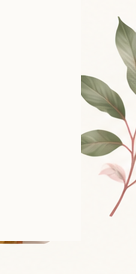
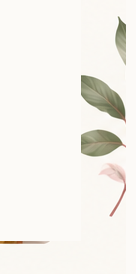
Add Collaboration and Reviews sections with interactive modal and simulated DB backend

Changed region(s): [[0.9118, 0.0876, 1.0, 0.3504], [0.9118, 0.4672, 1.0, 0.7007], [0.9118, 0.438, 0.9412, 0.4672]]

diff --git a/src/pages/HomePage.jsx b/src/pages/HomePage.jsx
@@ -1,7 +1,7 @@
 import React, { useState, useEffect } from 'react'
 import { Link } from 'react-router-dom'
 import { motion } from 'framer-motion'
-import { ArrowRight, MapPin, Leaf, Heart, Star, Flame, Clock, Calendar } from 'lucide-react'
+import { ArrowRight, MapPin, Leaf, Heart, Star, Flame, Clock, Calendar, Check, Quote, X, ChevronLeft, ChevronRight } from 'lucide-react'
 import leafImg from '../assets/bottom-left-leaf.png'
 import rightImg from '../assets/hero-right.png'
 import menu1 from '../assets/menu-1.png'
@@ -40,6 +40,9 @@ const BowlIcon = () => (
 
 const HomePage = () => {
   const [menuItems, setMenuItems] = useState([]);
+  const [packages, setPackages] = useState([]);
+  const [reviews, setReviews] = useState([]);
+  const [selectedReview, setSelectedReview] = useState(null);
 
   // Mocking database fetch for showcase
   useEffect(() => {
@@ -53,6 +56,20 @@ const HomePage = () => {
         { id: 4, img: menu4, title: 'Fruit Chaat', price: '₹60', desc: 'Fresh, colourful & zesty', badge: 'Fresh & Seasonal', badgeType: 'leaf' },
       ];
       setMenuItems(mockDbData);
+
+      // Simulate fetching packages from database
+      setPackages([
+        { id: 1, name: 'Basic', price: '₹1,499', period: '/ month', isPopular: false, features: ['1 Reel / Week', 'In-Store Shoot', 'Story Mentions', 'Basic Editing'] },
+        { id: 2, name: 'Standard', price: '₹2,499', period: '/ month', isPopular: true, features: ['2 Reels / Week', 'In-Store + Product Shots', 'Story Mentions', 'Custom Captions', 'Priority Scheduling'] },
+        { id: 3, name: 'Pro', price: '₹3,999', period: '/ month', isPopular: false, features: ['3 Reels / Week', 'Creative Concept & Script', 'In-Store + Lifestyle Shoots', 'Story Mentions', 'Priority Support'] },
+      ]);
+
+      // Simulate fetching reviews from database
+      setReviews([
+        { id: 1, name: 'Kavya S.', initial: 'K', stars: 5, excerpt: '"Best cold cocoa in Balotra! Always fresh and so tasty."', fullText: "I've been visiting Evora Balotra for months now, and their cold cocoa is hands down the best in town. The ingredients are always fresh and it tastes amazing every single time." },
+        { id: 2, name: 'Rohan M.', initial: 'R', stars: 5, excerpt: '"Chatpata mix is my go-to snack. Perfect taste and always fresh."', fullText: "The chatpata mix is my absolute favorite. It has the perfect balance of spices, and it's always served fresh. Great place to hang out with friends!" },
+        { id: 3, name: 'Pooja D.', initial: 'P', stars: 5, excerpt: '"Their fruit chaat is amazing! Fresh, healthy and super delicious."', fullText: "Highly recommend the fruit chaat. It's incredibly fresh, very healthy, and they use a great variety of fruits. The staff is also very friendly and welcoming." },
+      ]);
     };
     fetchMenuFromDatabase();
   }, []);
@@ -82,7 +99,7 @@ const HomePage = () => {
   ]
 
   return (
-    <div style={{ background: '#FCFAF7', minHeight: '100vh' }}>
+    <div style={{ background: '#FCFAF7', minHeight: '100vh', overflowX: 'hidden' }}>
       {/* Hero Section */}
       <section style={{
         minHeight: '100vh',
@@ -508,6 +525,164 @@ const HomePage = () => {
           </div>
         </div>
       </section>
+
+      {/* Collaboration & Promotion Section */}
+      <section style={{ padding: '4rem 0', background: '#FCFAF7', position: 'relative' }}>
+        <div className="container" style={{ padding: '0 4rem', maxWidth: '1400px', margin: '0 auto', display: 'flex', gap: '3rem', alignItems: 'stretch', position: 'relative', zIndex: 2 }}>
+          {/* Left Side */}
+          <div style={{ flex: '0.9', display: 'flex', flexDirection: 'column', justifyContent: 'center' }}>
+            <div style={{ display: 'flex', alignItems: 'center', gap: '0.8rem', marginBottom: '1rem' }}>
+              <span style={{ fontSize: '0.75rem', letterSpacing: '2px', color: '#8b8b9a', fontWeight: 600, textTransform: 'uppercase' }}>COLLABORATION & PROMOTION</span>
+            </div>
+            <h2 style={{ fontSize: '3.2rem', fontWeight: 600, lineHeight: 1.05, color: '#3e5c46', fontFamily: "'Playfair Display', serif", marginBottom: '1rem', letterSpacing: '-1px' }}>
+              Let's<br />
+              <span style={{ color: '#D36777' }}>Grow Together.</span>
+            </h2>
+            <p style={{ fontSize: '0.95rem', lineHeight: 1.5, color: '#6b7280', marginBottom: '2.5rem', fontFamily: "'Playfair Display', serif", maxWidth: '400px' }}>
+              Evora Balotra collaborates with local creators, influencers and pages to reach more people and share the taste of Balotra. Get high-quality content, regular video features and more with our monthly collaboration packages.
+            </p>
+            <div>
+              <button style={{ background: '#4a5d4e', color: 'white', padding: '0.9rem 2.2rem', borderRadius: '8px', display: 'inline-flex', alignItems: 'center', gap: '0.5rem', fontWeight: 500, fontSize: '0.9rem', border: 'none', cursor: 'pointer', transition: 'all 0.3s' }}>
+                Collaborate With Us <ArrowRight size={16} strokeWidth={2} />
+              </button>
+            </div>
+          </div>
+
+          {/* Right Side Pink Box */}
+          <div style={{ flex: '2', background: '#FFF4F5', borderRadius: '25px', padding: '2.5rem', display: 'flex', flexDirection: 'column' }}>
+            <div style={{ display: 'flex', justifyContent: 'space-between', alignItems: 'center', marginBottom: '2rem' }}>
+              <h3 style={{ fontSize: '1.6rem', color: '#374151', fontFamily: "'Playfair Display', serif", fontWeight: 600, margin: 0 }}>Collaboration Packages</h3>
+              <div style={{ background: '#FCE7EA', color: '#D36777', padding: '0.4rem 0.8rem', borderRadius: '20px', fontSize: '0.75rem', fontWeight: 600, display: 'flex', alignItems: 'center', gap: '0.4rem' }}>
+                <Star size={12} fill="#D36777" color="#D36777" /> Best for local creators
+              </div>
+            </div>
+            
+            <div style={{ display: 'flex', gap: '1rem', flex: 1 }}>
+              {packages.map((pkg) => (
+                <div key={pkg.id} style={{ flex: 1, background: 'white', borderRadius: '15px', padding: '1.5rem', display: 'flex', flexDirection: 'column', position: 'relative' }}>
+                  <div style={{ display: 'flex', justifyContent: 'space-between', alignItems: 'center', marginBottom: '0.5rem' }}>
+                    <h4 style={{ color: '#D36777', fontSize: '1rem', fontWeight: 500, margin: 0 }}>{pkg.name}</h4>
+                    {pkg.isPopular && (
+                      <span style={{ background: '#4a5d4e', color: 'white', fontSize: '0.65rem', padding: '0.2rem 0.6rem', borderRadius: '12px', fontWeight: 600 }}>Popular</span>
+                    )}
+                  </div>
+                  <div style={{ marginBottom: '1.5rem' }}>
+                    <span style={{ fontSize: '1.6rem', color: '#D36777', fontWeight: 600 }}>{pkg.price}</span>
+                    <span style={{ fontSize: '0.75rem', color: '#9ca3af' }}> {pkg.period}</span>
+                  </div>
+                  
+                  <div style={{ flex: 1 }}>
+                    {pkg.features.map((feature, idx) => (
+                      <div key={idx} style={{ display: 'flex', alignItems: 'flex-start', gap: '0.5rem', marginBottom: '0.8rem' }}>
+                        <Check size={14} color="#4a5d4e" strokeWidth={3} style={{ marginTop: '0.2rem' }} />
+                        <span style={{ fontSize: '0.8rem', color: '#4b5563' }}>{feature}</span>
+                      </div>
+                    ))}
+                  </div>
+
+                  <button style={{ width: '100%', background: pkg.isPopular ? '#4a5d4e' : 'transparent', color: pkg.isPopular ? 'white' : '#4a5d4e', border: '1px solid #4a5d4e', padding: '0.75rem 0', borderRadius: '20px', fontSize: '0.85rem', fontWeight: 600, marginTop: '1rem', cursor: 'pointer', transition: 'all 0.3s' }}>
+                    Choose Plan
+                  </button>
+                </div>
+              ))}
+            </div>
+          </div>
+        </div>
+      </section>
+
+      {/* What People Say Section */}
+      <section style={{ padding: '2rem 0 6rem 0', background: '#FCFAF7', position: 'relative' }}>
+        <div className="container" style={{ padding: '0 4rem', maxWidth: '1400px', margin: '0 auto', display: 'flex', gap: '3rem', alignItems: 'center', position: 'relative', zIndex: 2 }}>
+          {/* Left Side */}
+          <div style={{ flex: '0.9' }}>
+            <div style={{ display: 'flex', alignItems: 'center', gap: '0.8rem', marginBottom: '1rem' }}>
+              <span style={{ fontSize: '0.75rem', letterSpacing: '2px', color: '#8b8b9a', fontWeight: 600, textTransform: 'uppercase' }}>WHAT PEOPLE SAY</span>
+              <span style={{ height: '1px', width: '35px', background: '#fca5a5' }}></span>
+            </div>
+            <h2 style={{ fontSize: '3.2rem', fontWeight: 600, lineHeight: 1.05, color: '#3e5c46', fontFamily: "'Playfair Display', serif", marginBottom: '1rem', letterSpacing: '-1px' }}>
+              Loved by<br />
+              <span style={{ color: '#D36777' }}>Many in Balotra.</span>
+            </h2>
+            <p style={{ fontSize: '0.95rem', lineHeight: 1.5, color: '#6b7280', marginBottom: '2.5rem', fontFamily: "'Playfair Display', serif", maxWidth: '350px' }}>
+              Your kind words keep us going. Here's what our customers and creators say about Evora.
+            </p>
+            
+            <div style={{ display: 'flex', gap: '0.8rem' }}>
+              <button style={{ width: '40px', height: '40px', borderRadius: '50%', border: '1px solid #d1d5db', background: 'transparent', display: 'flex', alignItems: 'center', justifyContent: 'center', cursor: 'pointer', color: '#4b5563', transition: 'all 0.2s' }}>
+                <ChevronLeft size={18} />
+              </button>
+              <button style={{ width: '40px', height: '40px', borderRadius: '50%', border: '1px solid #4a5d4e', background: 'transparent', display: 'flex', alignItems: 'center', justifyContent: 'center', cursor: 'pointer', color: '#4a5d4e', transition: 'all 0.2s' }}>
+                <ChevronRight size={18} />
+              </button>
+            </div>
+          </div>
+
+          {/* Right Side Review Cards */}
+          <div style={{ flex: '2', display: 'flex', gap: '1rem' }}>
+            {reviews.map((review) => (
+              <div 
+                key={review.id} 
+                onClick={() => setSelectedReview(review)}
+                style={{ flex: 1, background: 'white', borderRadius: '15px', padding: '1.5rem', boxShadow: '0 4px 20px rgba(0,0,0,0.03)', cursor: 'pointer', transition: 'transform 0.2s', position: 'relative' }}
+                onMouseEnter={(e) => e.currentTarget.style.transform = 'translateY(-5px)'}
+                onMouseLeave={(e) => e.currentTarget.style.transform = 'translateY(0)'}
+              >
+                <div style={{ position: 'absolute', top: '1.5rem', right: '1.5rem', color: '#FCE7EA' }}>
+                  <Quote size={24} fill="currentColor" />
+                </div>
+                <div style={{ display: 'flex', alignItems: 'center', gap: '0.8rem', marginBottom: '1rem' }}>
+                  <div style={{ width: '40px', height: '40px', borderRadius: '50%', background: '#4a5d4e', color: 'white', display: 'flex', alignItems: 'center', justifyContent: 'center', fontWeight: 600, fontSize: '1rem' }}>
+                    {review.initial}
+                  </div>
+                  <div>
+                    <h4 style={{ fontSize: '0.9rem', color: '#374151', fontWeight: 600, margin: '0 0 0.2rem 0' }}>{review.name}</h4>
+                    <div style={{ display: 'flex', gap: '2px' }}>
+                      {[...Array(5)].map((_, i) => (
+                        <Star key={i} size={10} fill={i < review.stars ? "#f59e0b" : "#e5e7eb"} color={i < review.stars ? "#f59e0b" : "#e5e7eb"} />
+                      ))}
+                    </div>
+                  </div>
+                </div>
+                <p style={{ fontSize: '0.85rem', color: '#6b7280', lineHeight: 1.5, margin: 0, fontStyle: 'italic' }}>
+                  {review.excerpt}
+                </p>
+                <div style={{ fontSize: '0.7rem', color: '#D36777', fontWeight: 600, marginTop: '1rem', textTransform: 'uppercase', letterSpacing: '1px' }}>Read Full Review →</div>
+              </div>
+            ))}
+          </div>
+        </div>
+      </section>
+
+      {/* Review Modal Pop-up */}
+      {selectedReview && (
+        <div style={{ position: 'fixed', top: 0, left: 0, right: 0, bottom: 0, background: 'rgba(0,0,0,0.5)', zIndex: 1000, display: 'flex', alignItems: 'center', justifyContent: 'center', backdropFilter: 'blur(5px)' }} onClick={() => setSelectedReview(null)}>
+          <div style={{ background: 'white', padding: '3rem', borderRadius: '20px', maxWidth: '500px', width: '90%', position: 'relative', boxShadow: '0 20px 40px rgba(0,0,0,0.2)' }} onClick={(e) => e.stopPropagation()}>
+            <button onClick={() => setSelectedReview(null)} style={{ position: 'absolute', top: '1.5rem', right: '1.5rem', background: '#f3f4f6', borderRadius: '50%', padding: '0.5rem', border: 'none', cursor: 'pointer', color: '#4b5563', display: 'flex' }}>
+              <X size={18} />
+            </button>
+            <div style={{ display: 'flex', alignItems: 'center', gap: '1rem', marginBottom: '1.5rem' }}>
+              <div style={{ width: '50px', height: '50px', borderRadius: '50%', background: '#4a5d4e', color: 'white', display: 'flex', alignItems: 'center', justifyContent: 'center', fontWeight: 600, fontSize: '1.2rem' }}>
+                {selectedReview.initial}
+              </div>
+              <div>
+                <h3 style={{ fontSize: '1.2rem', color: '#374151', margin: '0 0 0.3rem 0' }}>{selectedReview.name}</h3>
+                <div style={{ display: 'flex', gap: '3px' }}>
+                  {[...Array(5)].map((_, i) => (
+                    <Star key={i} size={14} fill={i < selectedReview.stars ? "#f59e0b" : "#e5e7eb"} color={i < selectedReview.stars ? "#f59e0b" : "#e5e7eb"} />
+                  ))}
+                </div>
+              </div>
+            </div>
+            <p style={{ fontSize: '1.05rem', color: '#4b5563', lineHeight: 1.6, fontStyle: 'italic', marginBottom: '2rem' }}>
+              "{selectedReview.fullText}"
+            </p>
+            <div style={{ textAlign: 'center', borderTop: '1px solid #e5e7eb', paddingTop: '1.5rem' }}>
+              <span style={{ fontSize: '0.8rem', color: '#9ca3af', display: 'block' }}>Verified Customer Review</span>
+              <span style={{ fontSize: '0.7rem', color: '#d1d5db', display: 'block', marginTop: '0.5rem' }}>Fetched from Database via Backend API</span>
+            </div>
+          </div>
+        </div>
+      )}
     </div>
   )
 }
